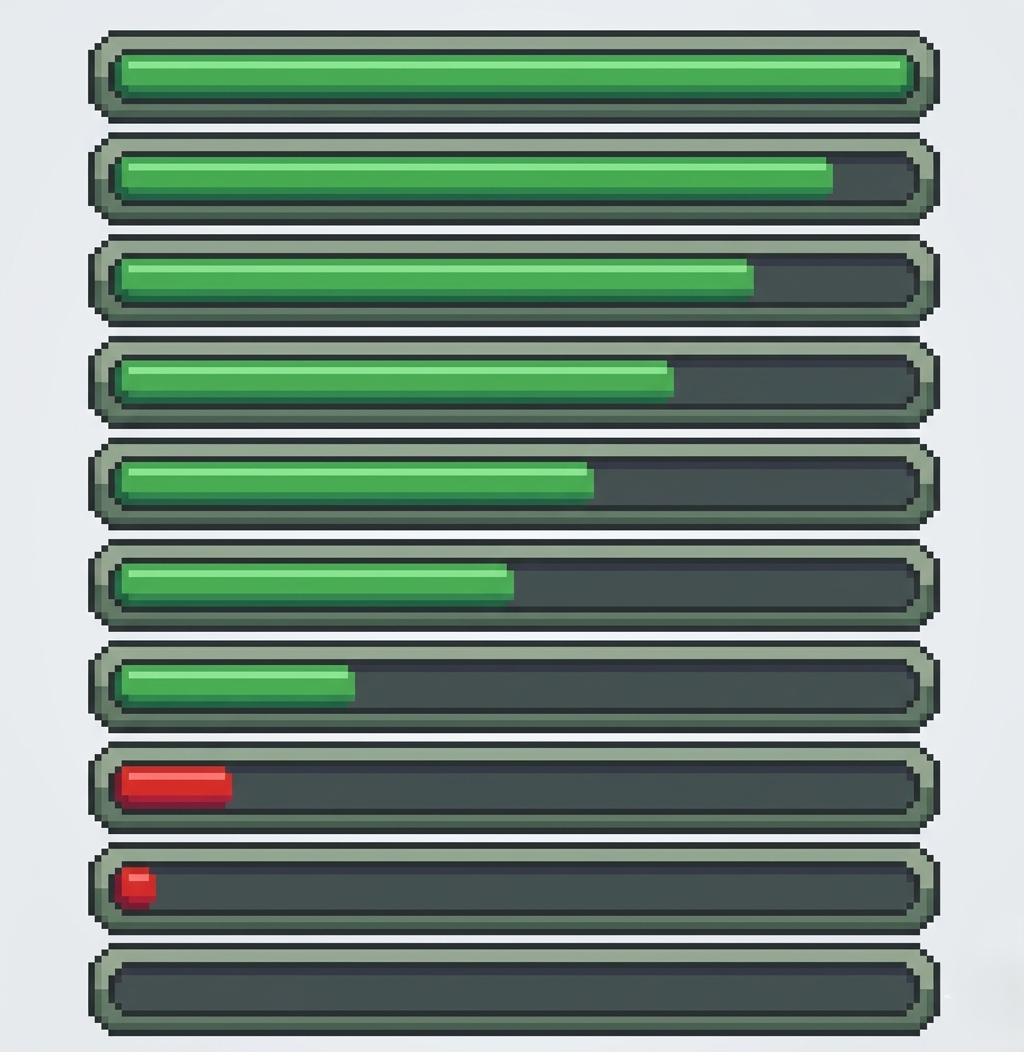
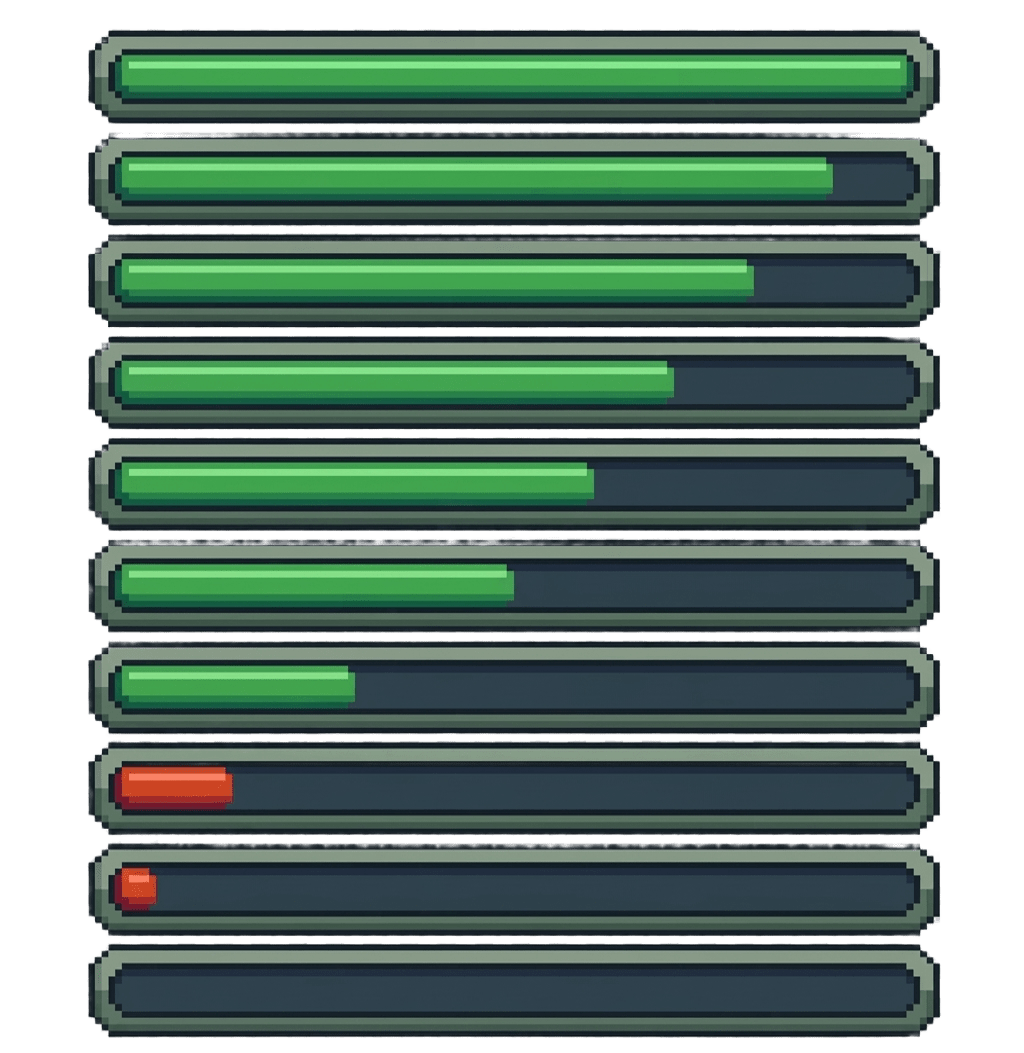
dibujo barra vida en combate

diff --git a/Archon1/src/MotorGrafico.cpp b/Archon1/src/MotorGrafico.cpp
@@ -3,6 +3,7 @@
 #include <ctime>
 #include <cstdlib>
 
+
 MotorGrafico::MotorGrafico() :
 	numObstaculos(5),
 	luchador("Recursos/luchador.png"), 	
@@ -205,4 +206,43 @@ void MotorGrafico::dibujarVida_Muerte(const Personaje& humano, const Personaje& 
 		calavera.setPos(alien.x, alien.y + 1.2);
 		calavera.draw();
 	}
+}
+
+void MotorGrafico::dibujarBarraVida(Personaje& j1, Personaje& j2)
+{
+	float porcentaje1 = (float)j1.return_Vida() / (float)j1.return_VidaMax();
+	float porcentaje2 = (float)j2.return_Vida() / (float)j2.return_VidaMax();
+	recortarBarra(porcentaje1, 1.0f, 1.0f, 4.5f, 0.8f);
+	recortarBarra(porcentaje2, 14.5f, 1.0f, 4.5f, 0.8f);
+}
+void MotorGrafico::recortarBarra(float porcentaje, float x, float y, float ancho, float alto)
+{
+	glDisable(GL_LIGHTING);
+	glDisable(GL_DEPTH_TEST);
+	glEnable(GL_TEXTURE_2D);
+	glEnable(GL_BLEND);
+	glBlendFunc(GL_SRC_ALPHA, GL_ONE_MINUS_SRC_ALPHA);
+	glBindTexture(GL_TEXTURE_2D, ETSIDI::getTexture("Recursos/barra.png").id);
+	if (porcentaje < 0) porcentaje = 0;
+	if (porcentaje > 1) porcentaje = 1;
+	int indice = (int)((1.0f - porcentaje) * 9.0f);
+	if (indice > 9) indice = 9;
+	float paso = 1.0f/10.0f;
+	float vSup = (float)indice * paso;
+	float vInf = vSup + 0.1f;
+
+	
+	glColor4f(1.0f, 1.0f, 1.0f, 1.0f);
+	glBegin(GL_POLYGON);
+		glTexCoord2f(0.0f, vSup); glVertex2f(x, y + alto);        // Arriba Izq
+		glTexCoord2f(1.0f, vSup); glVertex2f(x + ancho, y + alto); // Arriba Der
+		glTexCoord2f(1.0f, vInf); glVertex2f(x + ancho, y);        // Abajo Der
+		glTexCoord2f(0.0f, vInf); glVertex2f(x, y);               // Abajo Izq
+	glEnd();
+
+	glDisable(GL_BLEND);
+	glEnable(GL_LIGHTING);
+	glEnable(GL_DEPTH_TEST);
+	glDisable(GL_TEXTURE_2D);
+	
 }

diff --git a/Archon1/src/batalla.cpp b/Archon1/src/batalla.cpp
@@ -81,10 +81,26 @@ void Batalla::actualizarCombate(Personaje& j1, Personaje& j2,Caja &caja, Obstacu
 			}
 			
 			//ELIMINAR SI IMPACTA
-			if (nDisparos[i]->Impacto(j1, j2) || nDisparos[i]->Impacto(j2, j1) || !nDisparos[i]->return_Activo()) {
+			if (nDisparos[i]->Impacto(j1, j2)) {
+				std::cout << "¡J1 ha sido golpeado! Vida: " << j1.return_Vida() << std::endl;
 				delete nDisparos[i];
-					nDisparos[i] = nullptr;
+				nDisparos[i] = nullptr;
 			}
+			else if (nDisparos[i]->Impacto(j2, j1)) {
+				std::cout << "¡J2 ha sido golpeado! Vida: " << j2.return_Vida() << std::endl;
+				delete nDisparos[i];
+				nDisparos[i] = nullptr;
+			}
+			else if (!nDisparos[i]->return_Activo()) {
+				delete nDisparos[i];
+				nDisparos[i] = nullptr;
+			}
+			/*if (nDisparos[i]->Impacto(j1, j2) || nDisparos[i]->Impacto(j2, j1) || !nDisparos[i]->return_Activo()) {
+				delete nDisparos[i];
+				nDisparos[i] = nullptr;
+				std::cout << "VIDA ACTUAL J1: " << j1.return_Vida() << std::endl;
+				std::cout << "VIDA ACTUAL J2: " << j2.return_Vida() << std::endl;
+			}*/
 		}
 	}
 

diff --git a/Archon1/src/Main.cpp b/Archon1/src/Main.cpp
@@ -87,6 +87,7 @@ void OnDraw(void) //aqui dentro está el switch al que hay q añadir el estado d
     case JUEGO:
         miCamara.vistaJuego();
         dibujo_tablero.dibuja();
+        fin_ = false;
         break;
     case RANKING:
         //pantallaRanking.draw();
@@ -103,7 +104,6 @@ void OnDraw(void) //aqui dentro está el switch al que hay q añadir el estado d
     case BATALLA:
         miCamara.vistaBatalla();
         motor.dibujarCaja(miCaja);
-
         motor.dibujarPersonaje(pj1);
         motor.dibujarPersonaje(pj2);
 
@@ -113,7 +113,9 @@ void OnDraw(void) //aqui dentro está el switch al que hay q añadir el estado d
                 motor.dibujarDisparo(d); //SE PASA EL PUNTERO
             }
         }
+        motor.dibujarBarraVida(pj1, pj2);
         break;
+        
     }
     //no borrar esta linea ni poner nada despues
     glutSwapBuffers();

diff --git a/Archon1/src/MotorGrafico.h b/Archon1/src/MotorGrafico.h
@@ -35,6 +35,7 @@ class MotorGrafico
 	Obstaculo* listaObstaculos[5];
 	int numObstaculos;
 
+	void recortarBarra(float vida, float x, float y, float ancho, float alto);
 	////TABLERO////
 
 	////MENU////
@@ -52,7 +53,7 @@ public:
 	void dibujarHechizo(const Hechizo& hechizo);
 	void dibujarPersonaje(const Personaje& personaje);
 	void dibujarVida_Muerte(const Personaje& humano, const Personaje& alien);
-	
+	void dibujarBarraVida(Personaje& j1, Personaje& j2);
 
 	/////////METODOS////////////
 	//DIRECCION QUE APUNTA A OTRA DIRECCION

diff --git a/Archon1/src/Batalla.h b/Archon1/src/Batalla.h
@@ -36,4 +36,7 @@ public:
 
 	static void limites_d(Disparo& d, Caja& c);
 	static void limites_p(Personaje& j, Caja& c);
+
+	//para hacer la barra de vida
+	void dibujarInterfaz(Personaje& j1, Personaje& j2);
 };
